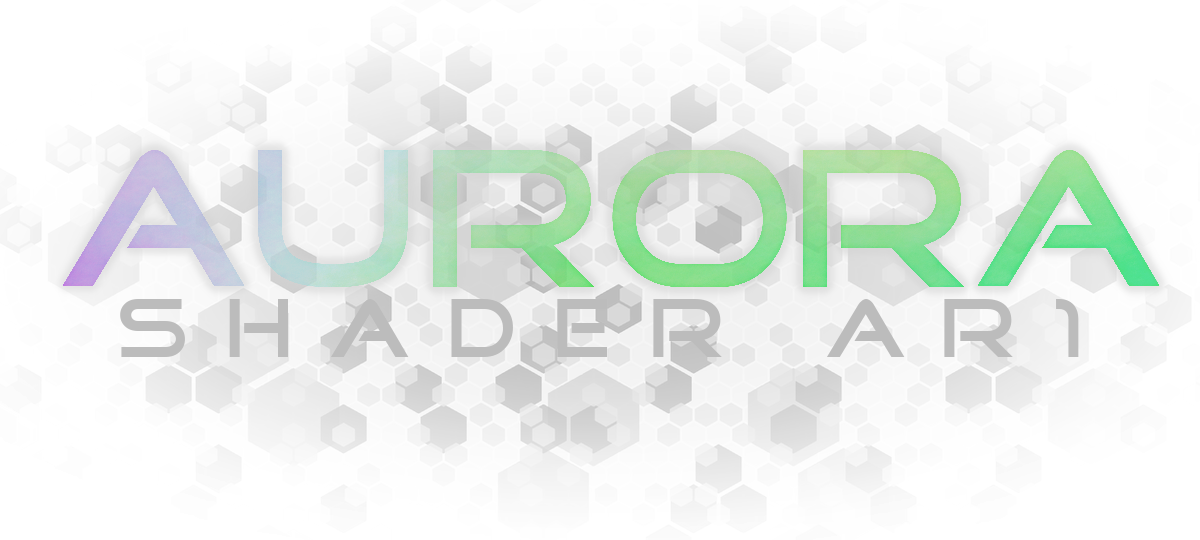
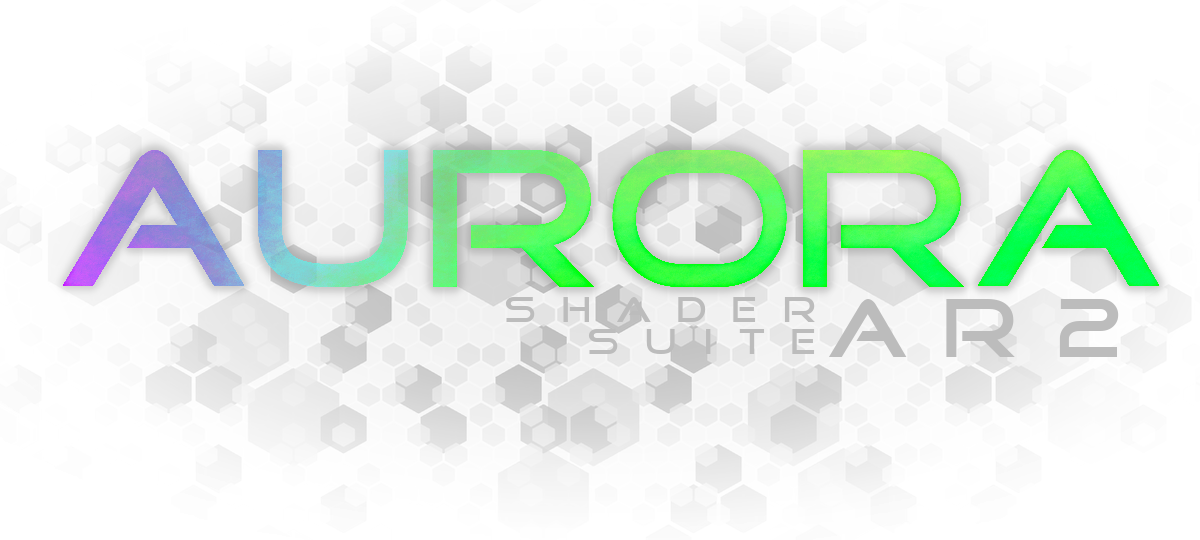
AR2.0 - Consistency improvements, new header

diff --git a/Assets/GentleShaders/Aurora/Editor/Aurora/AuroraEditor.cs b/Assets/GentleShaders/Aurora/Editor/Aurora/AuroraEditor.cs
@@ -15,7 +15,7 @@ namespace GentleShaders.Aurora
     [CanEditMultipleObjects]
     public class AuroraEditor : ShaderGUI
     {
-        public static string currentVersion = "AR1.3";
+        public static string currentVersion = "AR2.0";
 
         #region Properties and Fields
 
@@ -44,17 +44,17 @@ namespace GentleShaders.Aurora
         MaterialProperty detailStrength;
 
         private Texture2D header;
-        private bool texFound = false;
-        private bool performedUpdateCheck = false;
-        private bool gotProperties = false;
+        private bool texFound;
+        private bool performedUpdateCheck;
+        private bool gotProperties;
 
-        private bool colorTexToggle = false;
-        private bool simpleRoughnessToggle = false;
-        private bool alphaRoughnessToggle = false;
-        private bool bypassLighting = true;
-        private bool showAurora = false;
-        private bool showAltTextures = false;
-        private bool showHelpers = false;
+        private bool colorTexToggle;
+        private bool simpleRoughnessToggle;
+        private bool alphaRoughnessToggle;
+        private bool bypassLighting;
+        private bool showAurora;
+        private bool showAltTextures;
+        private bool showHelpers;
         private bool updateReady;
 
         #endregion
@@ -162,7 +162,11 @@ namespace GentleShaders.Aurora
         private void DisplayCustomGUI(MaterialEditor materialEditor, Material target)
         {
             ReadyForUpdate();
-            GUILayout.Label(header, GUILayout.MinWidth(240), GUILayout.MaxWidth(1000), GUILayout.MinHeight(190), GUILayout.MaxHeight(300));
+            GUILayout.BeginHorizontal();
+            GUILayout.FlexibleSpace();
+            GUILayout.Label(header, GUILayout.MinWidth(240), GUILayout.MaxWidth(445), GUILayout.MinHeight(50), GUILayout.MaxHeight(200));
+            GUILayout.FlexibleSpace();
+            GUILayout.EndHorizontal();
 
             EditorGUI.BeginChangeCheck();
 
@@ -173,7 +177,7 @@ namespace GentleShaders.Aurora
             GUILayout.Label("Main Textures", EditorStyles.boldLabel);
             materialEditor.TextureProperty(mainTex, "Diffuse", false);
             //desaturation toggle
-            colorTexToggle = GUILayout.Toggle(colorTexture.floatValue > 0 ? true : false, MakeLabel(" Color Texture?", "This checkbox desaturates the Diffuse texture, eliminating existing colors to improve color accuracy."));
+            colorTexToggle = GUILayout.Toggle(colorTexture.floatValue > 0 ? true : false, MakeLabel(" Desaturate?", "This checkbox desaturates the Diffuse texture, eliminating existing colors to improve color control accuracy."));
 
             materialEditor.TextureProperty(cc, "Color Control (CC)", false);
             materialEditor.TextureProperty(normal, "Normal Map (DirectX)", false);
@@ -322,9 +326,9 @@ namespace GentleShaders.Aurora
                 if (GUILayout.Button(new GUIContent("Bake Material", "Bakes the material's output into a texture, optionally including environment lighting."), GUILayout.Width(250f)))
                 {
                     //run the baking process
-                    AuroraBaker.BakeMaterialAsTexture((Material)materialEditor.target, bypassLighting);
+                    AuroraBaker.BakeMaterialAsTexture((Material)materialEditor.target, !bypassLighting);
                 }
-                bypassLighting = GUILayout.Toggle(bypassLighting, MakeLabel("Lighting Bypass", "Bypasses the light model of the material, making it unlit."));
+                bypassLighting = GUILayout.Toggle(bypassLighting, MakeLabel("Include Lighting?", "Bake the current environment sample and point/directional lighting into the texture."));
                 GUILayout.EndHorizontal();
                 GUILayout.Space(6f);
             }

diff --git a/Assets/GentleShaders/Aurora/Editor/Aurora/Helpers/AuroraPacker.cs b/Assets/GentleShaders/Aurora/Editor/Aurora/Helpers/AuroraPacker.cs
@@ -127,7 +127,7 @@ namespace GentleShaders.Aurora.Helpers
 
             GUILayout.BeginHorizontal();
             GUILayout.Space(100f);
-            smoothnessTexture = GUILayout.Toggle(smoothnessTexture, new GUIContent("   Is Smoothness?", "Select this option if your asset's workflow utilizes Smoothness."));
+            smoothnessTexture = GUILayout.Toggle(smoothnessTexture, new GUIContent("   Smoothness Workflow?", "Select this option if your asset's workflow utilizes Smoothness."));
             GUILayout.FlexibleSpace();
             alphaChannelSmoothness = GUILayout.Toggle(alphaChannelSmoothness, new GUIContent("   Read from alpha channel?", "Select this option if the provided texture " +
                 "has the roughness/smoothness in the alpha channel. This is common with 'Metallic_Smoothness' textures."));
@@ -138,7 +138,7 @@ namespace GentleShaders.Aurora.Helpers
 
             GUILayout.BeginHorizontal();
             GUILayout.FlexibleSpace();
-            if (GUILayout.Button("Pack!", GUILayout.Width(150f)))
+            if (GUILayout.Button("Pack Diffuse", GUILayout.Width(150f)))
             {
                 if (!PackDiffuse())
                 {
@@ -155,7 +155,7 @@ namespace GentleShaders.Aurora.Helpers
         {
             GUILayout.Label("Aurora Packing", h2);
             GUILayout.Label("This section is for packing textures into an 'Aurora' swizzle.", boldLabels);
-            GUILayout.Label("Assign a diffuse texture above to auto calculate a more-accurate save path. ('DiffuseName_Aurora.png')", common);
+            GUILayout.Label("Assign a diffuse texture above to auto calculate a more-accurate save path. ('DiffuseName_Aurora.png')\nOtherwise, it will be saved in the same location as the first provided texture.", common);
 
             GUILayout.Space(6f);
 
@@ -197,7 +197,7 @@ namespace GentleShaders.Aurora.Helpers
 
             GUILayout.BeginHorizontal();
             GUILayout.FlexibleSpace();
-            if (GUILayout.Button("Pack!", GUILayout.Width(150f)))
+            if (GUILayout.Button("Pack Aurora", GUILayout.Width(150f)))
             {
                 if (!PackEtc())
                 {

diff --git a/Assets/GentleShaders/Aurora/Editor/Aurora/AuroraAboutWindow.cs b/Assets/GentleShaders/Aurora/Editor/Aurora/AuroraAboutWindow.cs
@@ -116,7 +116,7 @@ namespace GentleShaders.Aurora
             GUILayout.Space(4f);
             GUILayout.Label("Aurora?", boldLabels);
             GUILayout.Space(4f);
-            GUILayout.Label("'Aurora' is the name of the texture swizzle utilized by the shader to replace traditional Metallic_Smoothness, Occlusion, and Emission textures.", common);
+            GUILayout.Label("'Aurora' is the name of the texture swizzle utilized by the shader to replace traditional Metallic_Smoothness, Occlusion, Emission, and Curvature textures.", common);
             GUILayout.Label("This decreases video memory usage, build file size, and provides a slightly faster workflow.", common);
             GUILayout.Space(4f);
 
@@ -129,11 +129,11 @@ namespace GentleShaders.Aurora
         {
             GUILayout.Label("What is the purpose of the Helper Utilities?", boldLabels);
             GUILayout.Space(4f);
-            GUILayout.Label("The Helper Utilities are a suite of tools to convert 'Halo' textures into the format that the shader is designed for.", common);
+            GUILayout.Label("The Helper Utilities are a suite of tools to assist in the conversion of existing textures into the Aurora format.", common);
             GUILayout.Label("You will find a short description of each helper utility by hovering over their buttons when inspecting a Aurora material.", common);
             GUILayout.Space(4f);
             GUILayout.Label("Additional helper utilities will be implemented as the need for them arises.", common);
-            GUILayout.Label("If you would like to request a helper, please do so!", common);
+            GUILayout.Label("If you would like to request a helper, please do so by submitting an issue with the label 'enhancement'!", common);
         }
 
         public static void OpenRepository()
